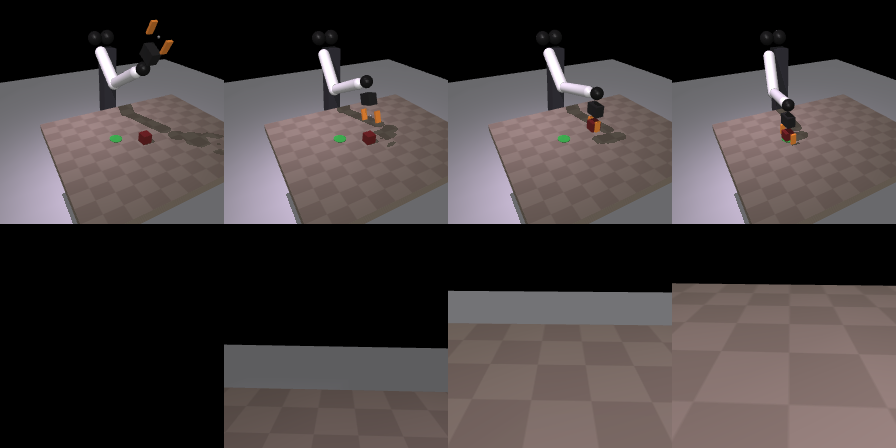
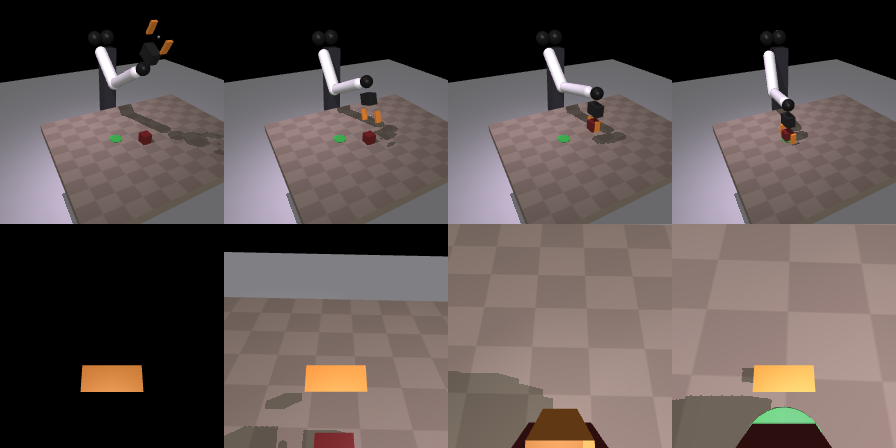
SW run 1: wrist camera re-aimed down past the fingertips (DROID-style)
Claude-Session: https://claude.ai/code/session_01RwSoTh3JZTTiPE9Ryxfm6D

diff --git a/sw/bench_env.py b/sw/bench_env.py
@@ -63,7 +63,7 @@ def xml(d=BASELINE) -> str:
       <body name="hand" gravcomp="1" pos="0 0 -0.04">
        <joint name="wroll" axis="0 0 1" range="{JR['wroll'][0]} {JR['wroll'][1]}" damping="0.3" armature="0.005"/>
        <geom type="box" size="0.032 0.02 0.025" pos="0 0 -0.035" mass="{m['wrist_roll'] + m['gripper'] + a.gripper_mech_mass}" rgba=".15 .15 .15 1"/>
-       <camera name="wrist" pos="0.05 0 -0.03" xyaxes="0 -1 0 0.6 0 0.8" fovy="75"/>
+       <camera name="wrist" pos="0.05 0 -0.03" xyaxes="0 -1 0 0.95 0 0.3" fovy="80"/>  <!-- looks down past the fingertips (DROID-style wrist view) -->
        <site name="grasp" pos="0 0 {-(a.l_hand - 0.04)}" size="0.005"/>
        <body name="finger_a" gravcomp="1" pos="0.05 0 {-(a.l_hand - 0.04)}"><joint name="fa" type="slide" axis="-1 0 0" range="0 0.045" damping="5"/>
         <geom type="box" size="0.005 0.012 0.025" mass="0.03" friction="1.5 0.02 0.002" rgba=".95 .55 .2 1"/></body>
